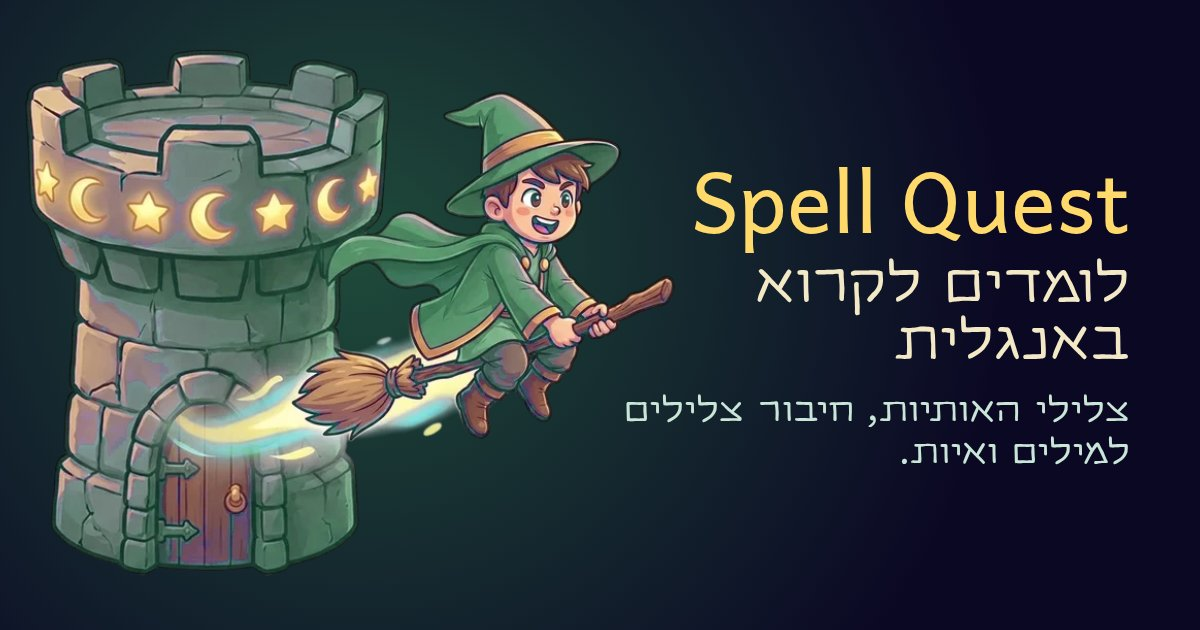
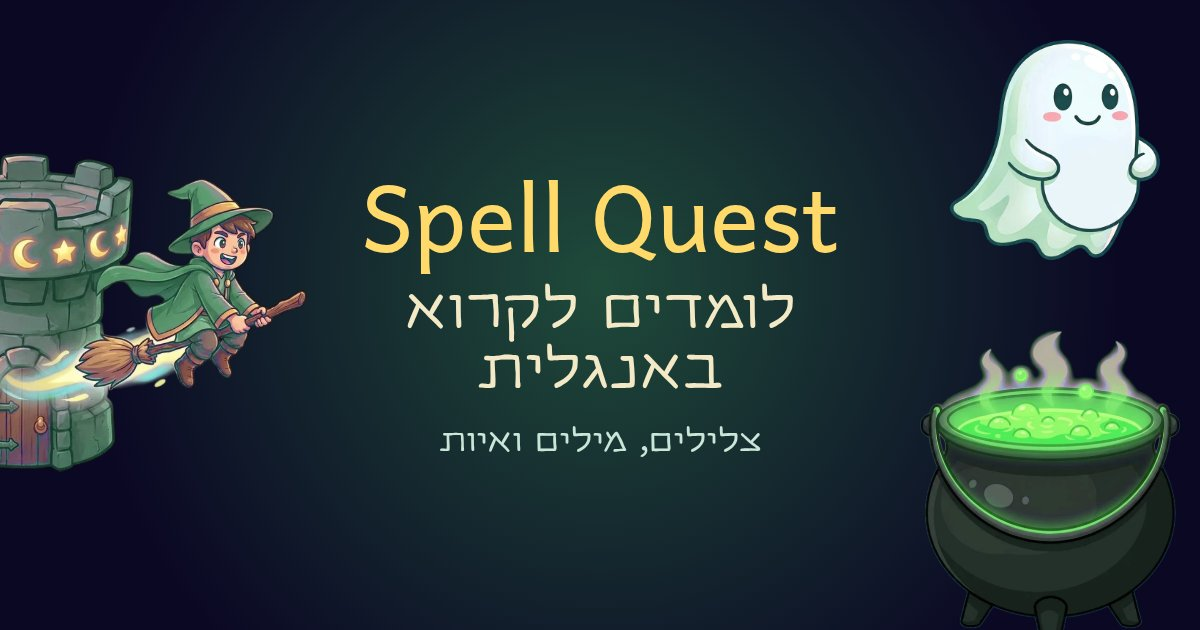
Link previews: the text in the middle of the picture, where WhatsApp's crop keeps it
WhatsApp's small preview shows only about the centre square, so the text on the right was cut. The text is now in
the middle column and the art on the sides. The picture URLs carry ?v=2 so cached previews are fetched again.

diff --git a/spellquest-en/index.html b/spellquest-en/index.html
@@ -13,7 +13,7 @@
     <meta property="og:title" content="Spell Quest · לומדים לקרוא באנגלית" />
     <meta property="og:description" content="צלילי האותיות, חיבור צלילים למילים ואיות. המשחק מוצא את הרמה של הילד." />
     <meta property="og:url" content="https://michaelitvin.github.io%BASE_URL%spellquest-en/" />
-    <meta property="og:image" content="https://michaelitvin.github.io%BASE_URL%og/spellquest-en.jpg" />
+    <meta property="og:image" content="https://michaelitvin.github.io%BASE_URL%og/spellquest-en.jpg?v=2" />
     <meta property="og:image:type" content="image/jpeg" />
     <meta property="og:image:width" content="1200" />
     <meta property="og:image:height" content="630" />

diff --git a/spellquest-he/index.html b/spellquest-he/index.html
@@ -13,7 +13,7 @@
     <meta property="og:title" content="Spell Quest · קוראים בעברית" />
     <meta property="og:description" content="אותיות, ניקוד והברות, ואחר כך מילים. המשחק מתאים את עצמו לילד." />
     <meta property="og:url" content="https://michaelitvin.github.io%BASE_URL%spellquest-he/" />
-    <meta property="og:image" content="https://michaelitvin.github.io%BASE_URL%og/spellquest-he.jpg" />
+    <meta property="og:image" content="https://michaelitvin.github.io%BASE_URL%og/spellquest-he.jpg?v=2" />
     <meta property="og:image:type" content="image/jpeg" />
     <meta property="og:image:width" content="1200" />
     <meta property="og:image:height" content="630" />

diff --git a/index.html b/index.html
@@ -13,7 +13,7 @@
     <meta property="og:title" content="אָלֶף · משחקי למידה לכיתות הראשונות" />
     <meta property="og:description" content="קריאה בעברית, אנגלית, שעון וחשבון: משחקים שמתאימים את עצמם לילד." />
     <meta property="og:url" content="https://michaelitvin.github.io%BASE_URL%" />
-    <meta property="og:image" content="https://michaelitvin.github.io%BASE_URL%og/home.jpg" />
+    <meta property="og:image" content="https://michaelitvin.github.io%BASE_URL%og/home.jpg?v=2" />
     <meta property="og:image:type" content="image/jpeg" />
     <meta property="og:image:width" content="1200" />
     <meta property="og:image:height" content="630" />

diff --git a/clock/index.html b/clock/index.html
@@ -13,7 +13,7 @@
     <meta property="og:title" content="שָׁעוֹן · לומדים לקרוא שעון" />
     <meta property="og:description" content="שעות שלמות, חצאים ורבעים, ואחר כך כל חמש דקות. בעברית ובאנגלית." />
     <meta property="og:url" content="https://michaelitvin.github.io%BASE_URL%clock/" />
-    <meta property="og:image" content="https://michaelitvin.github.io%BASE_URL%og/clock.jpg" />
+    <meta property="og:image" content="https://michaelitvin.github.io%BASE_URL%og/clock.jpg?v=2" />
     <meta property="og:image:type" content="image/jpeg" />
     <meta property="og:image:width" content="1200" />
     <meta property="og:image:height" content="630" />

diff --git a/spacecat/index.html b/spacecat/index.html
@@ -13,7 +13,7 @@
     <meta property="og:title" content="Space Cat · חשבון בחלל" />
     <meta property="og:description" content="חיבור וחיסור עד 100, כפל וחילוק. המשחק מוצא לבד את הרמה של הילד." />
     <meta property="og:url" content="https://michaelitvin.github.io%BASE_URL%spacecat/" />
-    <meta property="og:image" content="https://michaelitvin.github.io%BASE_URL%og/spacecat.jpg" />
+    <meta property="og:image" content="https://michaelitvin.github.io%BASE_URL%og/spacecat.jpg?v=2" />
     <meta property="og:image:type" content="image/jpeg" />
     <meta property="og:image:width" content="1200" />
     <meta property="og:image:height" content="630" />
